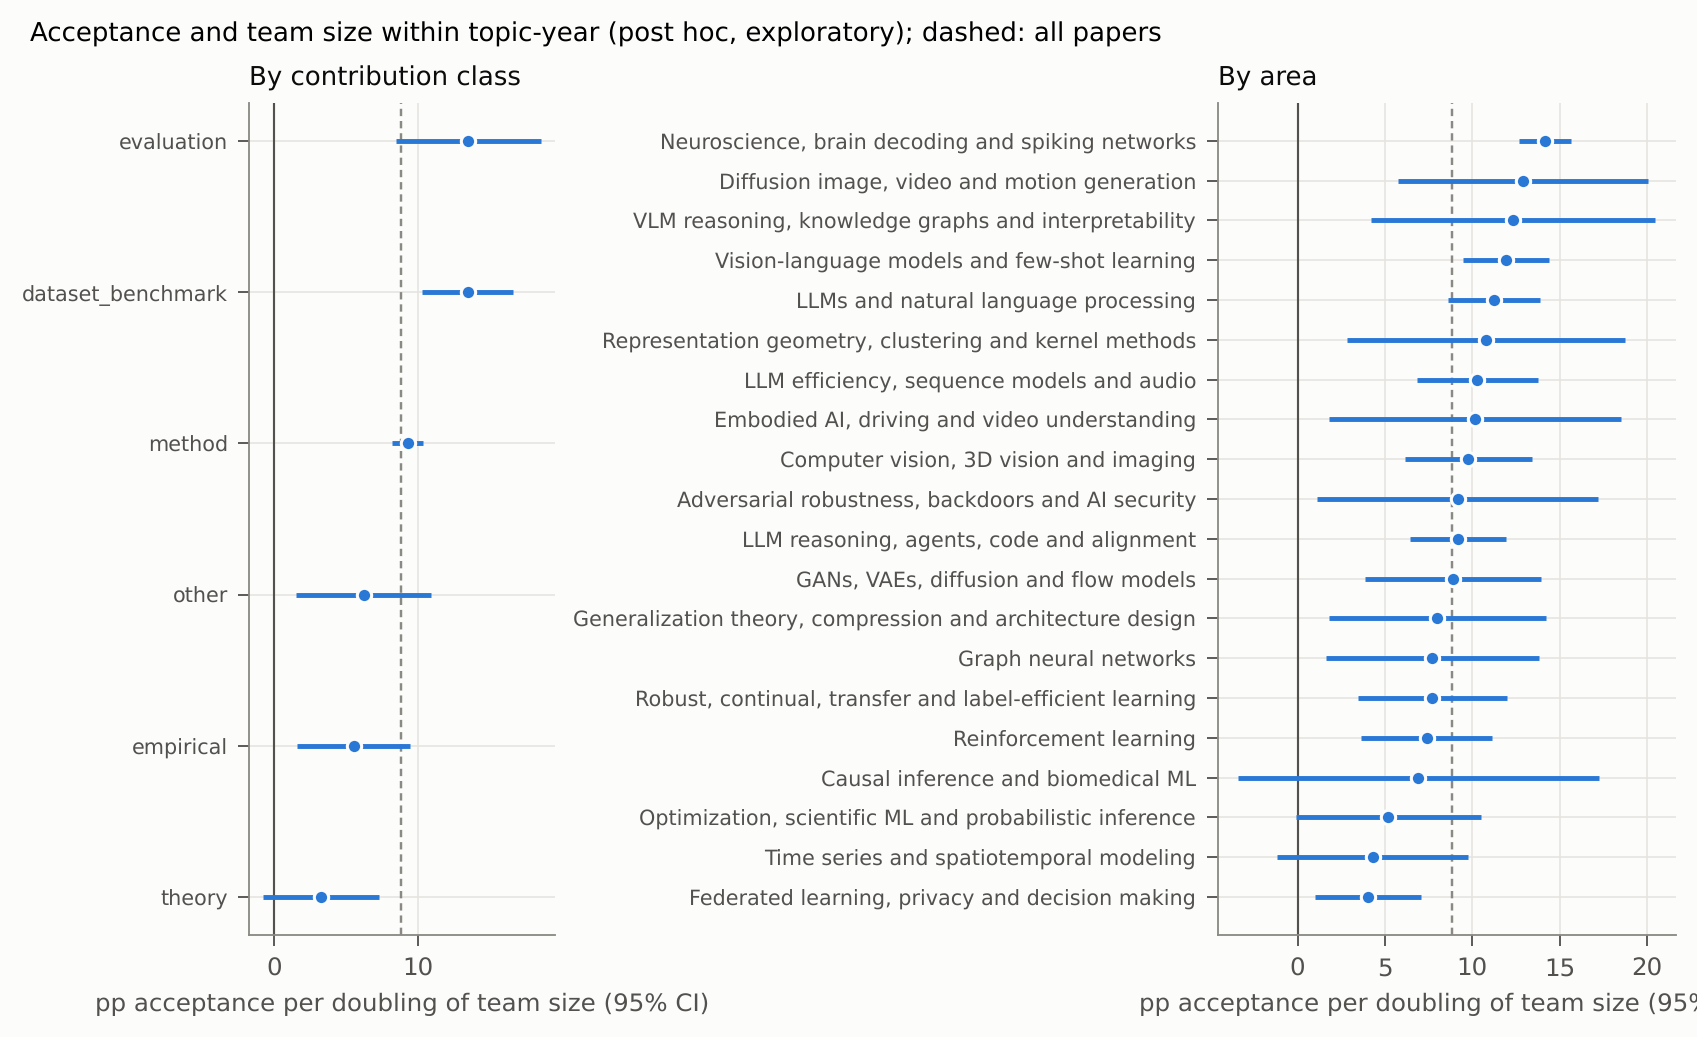
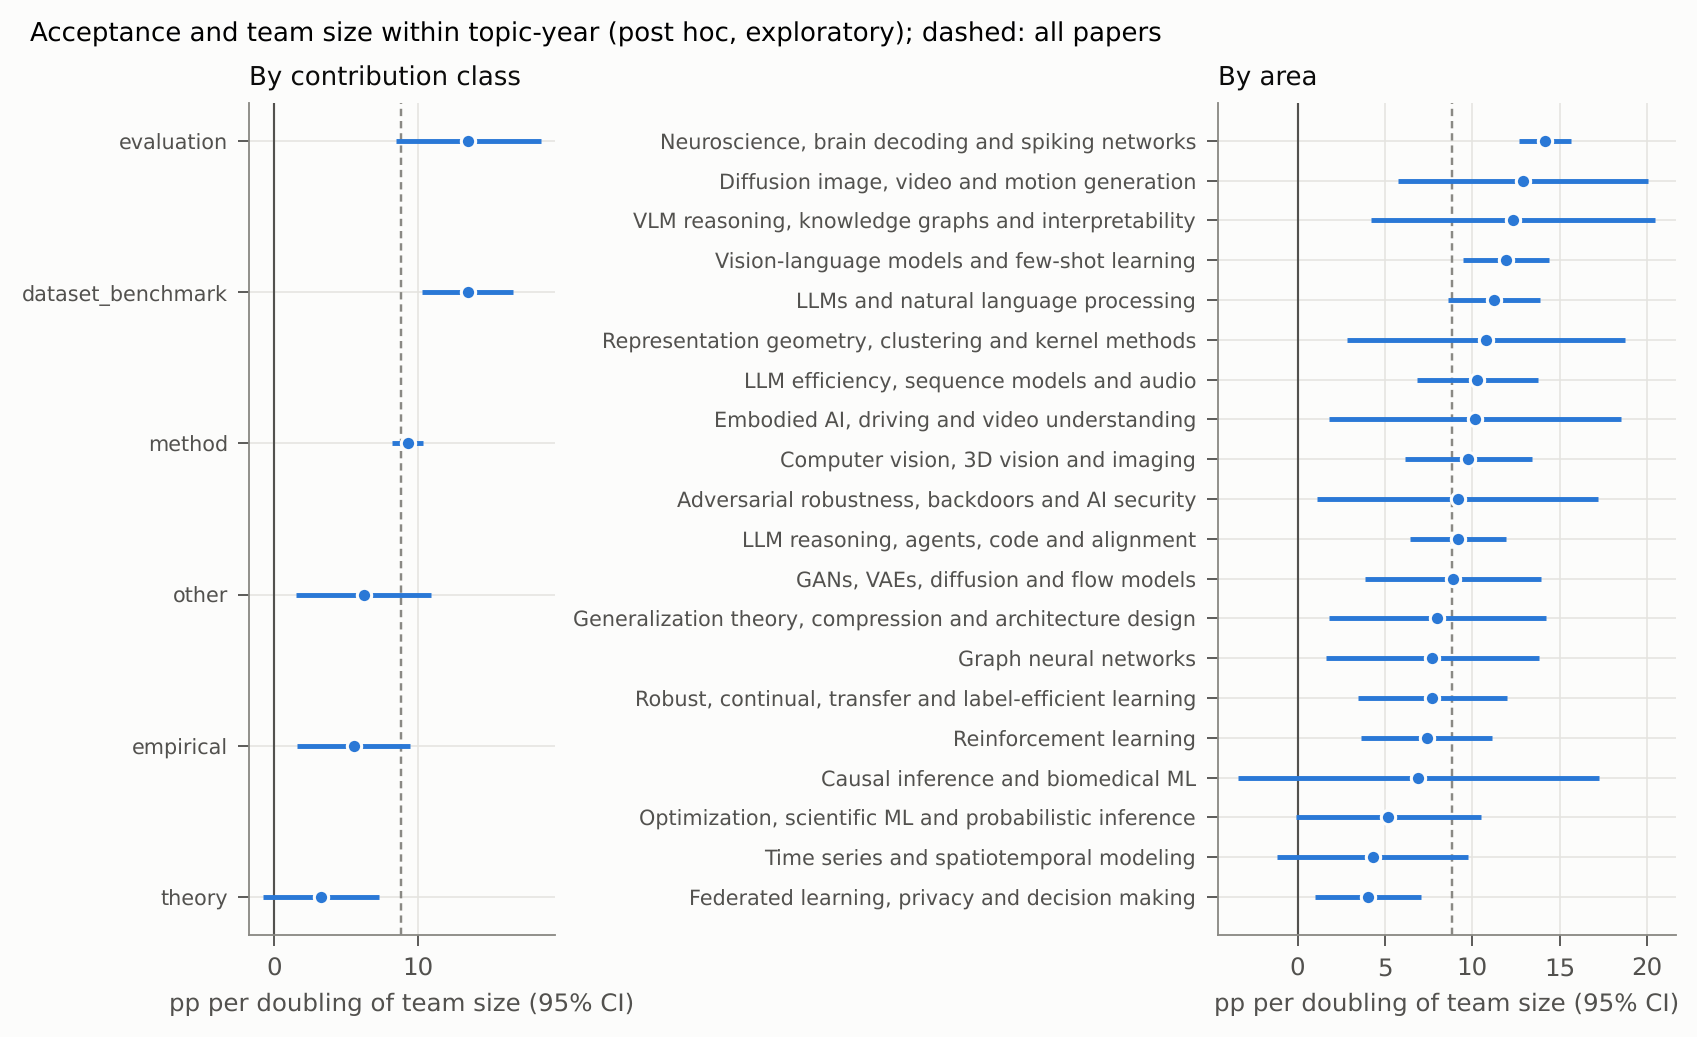
PH2 figure label (redrawn from saved estimates, no outcome access); RESULTS.md: post hoc PH2 (team size by class and area)
Claude-Session: https://claude.ai/code/session_014Gxddxw4AapynGRQeyNs87

Changed region(s): [[0.6559, 0.9566, 1.0, 0.9875], [0.0625, 0.9566, 0.406, 0.9875]]

diff --git a/research/fashion/posthoc.py b/research/fashion/posthoc.py
@@ -329,7 +329,7 @@ def plot_ph2(res: pd.DataFrame) -> None:
         ax.scatter(g.coef * 100, y, s=22, color=figures.SERIES[0], edgecolor=figures.SURFACE, linewidth=1, zorder=3)
         ax.set_yticks(y, [lab.split(" ", 1)[1] if blk == "B-area" else lab for lab in g.label], fontsize=6.8)
         ax.set_title(title, loc="left")
-        ax.set_xlabel("pp acceptance per doubling of team size (95% CI)")
+        ax.set_xlabel("pp per doubling of team size (95% CI)")
     fig.suptitle("Acceptance and team size within topic-year (post hoc, exploratory); dashed: all papers",
                  x=0.01, ha="left", fontsize=8.5)
     figures.save(fig, "PH2_team_size")
@@ -337,8 +337,11 @@ def plot_ph2(res: pd.DataFrame) -> None:
 
 def main() -> None:
     which = sys.argv[1] if len(sys.argv) > 1 else ""
+    if which == "plot2":                                   # redraw from the saved estimates; reads no outcome
+        plot_ph2(pd.read_csv(OUT / "ph2_estimates.csv"))
+        return
     if which not in ("ph1", "ph2"):
-        raise SystemExit("usage: posthoc.py ph1|ph2")
+        raise SystemExit("usage: posthoc.py ph1|ph2|plot2")
     OUT.mkdir(parents=True, exist_ok=True)
     if which == "ph2":
         ph2(with_outcomes())

diff --git a/research/fashion/RESULTS.md b/research/fashion/RESULTS.md
@@ -337,6 +337,46 @@ only ranks the evidence.
     teams bring resources and seniority.
   - So these are not recommendations about what a newcomer should do.
 
+## Post hoc: where do small or large teams do better? (PH2, exploratory)
+
+`posthoc.py ph2`, declared before it was run; outputs in `output/posthoc/ph2_*`, figure `PH2_team_size.png`.
+- **Population:** all 32,190 RQ3 papers, 2018–2026.
+- **Model:** acceptance per doubling of team size, within topic × year, controlling class and FM. Team size is capped
+  at 16.
+- **Calibration:** in simulated nulls, the slope and band tests were sized about 5%. The nominal heterogeneity test
+  was badly oversized (90% for areas), so its p-value is calibrated on the real design instead.
+
+- **Overall the gradient is steep.**
+  - Acceptance by team size: 1–2 authors 28.7%; 3–4 authors 37.6%; 5–6 authors 41.6%; 7 or more 49.0%.
+  - Within topic and year: +8.8 pp per doubling (95% CI +8.0 to +9.7), and +7.8 pp with a newcomer control.
+  - Relative to 3–4 authors: 1–2 authors −9.1 pp; 7 or more +10.8 pp.
+- **By contribution class.**
+  - Large teams gain most for dataset/benchmark and evaluation papers: +13.5 pp per doubling each. Benchmark papers by
+    1–2 authors are accepted 21% of the time, against 52% with 7 or more.
+  - Method papers +9.3 pp; empirical +5.5 pp.
+  - Theory is the flattest: +3.3 pp, n.s. Theory papers by 1–2 authors are accepted 42% of the time, against 27% for
+    method papers by 1–2 authors.
+  - The joint test that all classes share one slope is not rejected (calibrated p = 0.13), so the class ranking is
+    suggestive. The gap between theory and dataset/benchmark is the clearest contrast: their CIs do not overlap.
+- **By area.** Areas do differ (calibrated p = 0.035).
+  - **Steepest** (large teams most favoured):
+    - neuroscience/spiking networks, +14.2 pp;
+    - diffusion image/video generation, +12.9 pp (1–2 authors 25% vs 7 or more 59%);
+    - VLM reasoning, +12.3 pp;
+    - vision-language, +11.9 pp;
+    - LLMs/NLP, +11.2 pp;
+    - LLM efficiency, +10.3 pp;
+    - embodied AI, +10.2 pp.
+  - **Flattest** (small teams least disadvantaged):
+    - federated learning/privacy, +4.0 pp (7 or more vs 3–4: +0.3 pp);
+    - time series, +4.3 pp;
+    - optimisation, scientific ML and probabilistic inference, +5.2 pp (7 or more vs 3–4: −1.0 pp);
+    - causal inference/biomedical ML, +6.9 pp, n.s.
+  - The slope is positive in every area. There is no area where small teams do better, only areas where they are less
+    disadvantaged.
+- **Reading.** Team size also stands for compute, data, engineering and seniority, which are plausibly what large
+  benchmark, generation and LLM work needs. These are associations, not advice to add authors.
+
 ## Limitations
 
 - **Associations only.** Topic choice, team composition and contribution type are chosen jointly.
